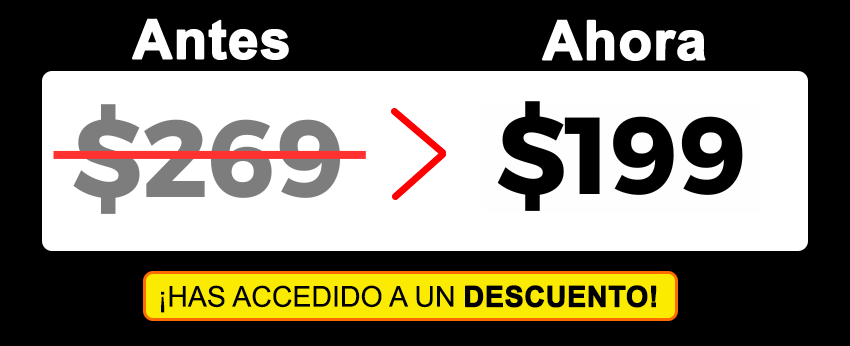
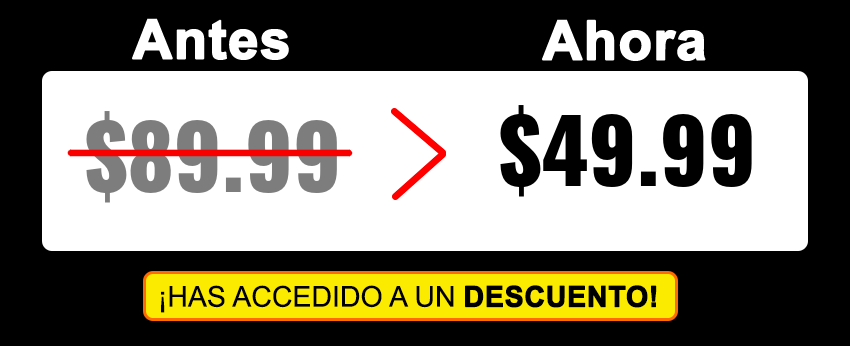
Segundo commit

Changed region(s): [[0.0612, 0.289, 0.4282, 0.6358], [0.5812, 0.289, 0.8871, 0.6069]]

diff --git a/src/app/page.tsx b/src/app/page.tsx
@@ -88,9 +88,9 @@ export default function Home() {
         <SectionTransition>
           <div className="flex flex-col items-center mb-6 sm:mb-10">
             <div className="flex items-center space-x-3 sm:space-x-4">
-              <span className="price-strike text-xl sm:text-2xl">$220.00</span>
+              <span className="price-strike text-xl sm:text-2xl">$89.99</span>
               <span className="text-red-500">&gt;</span>
-              <span className="price-new">$199.00</span>
+              <span className="price-new">$49.99</span>
             </div>
             <div className="mt-2">
               <span className="discount-tag text-xs sm:text-sm">¡HAS ACCEDIDO A UN DESCUENTO!</span>

diff --git a/src/components/PaymentForm.tsx b/src/components/PaymentForm.tsx
@@ -112,7 +112,7 @@ export default function PaymentForm() {
     <div id="payment-form" className="bg-white rounded-lg p-4 sm:p-6 text-black mb-6 sm:mb-5">
       <h2 className="font-bold text-xl mb-3 sm:mb-4">PROMO 2X1 - Ragnarok y Hombre Alfa</h2>
       <p className="text-xs sm:text-sm mb-3 sm:mb-4">Author: Hombres Peligrosos</p>
-      <p className="font-bold text-green-700 mb-4 sm:mb-6">$199.00</p>
+      <p className="font-bold text-green-700 mb-4 sm:mb-6">$49.99</p>
       <p className="text-xs sm:text-sm text-gray-600 mb-4 sm:mb-6">Muy pronto podras comprar el ebook por este medio.</p>
 
       <Button
